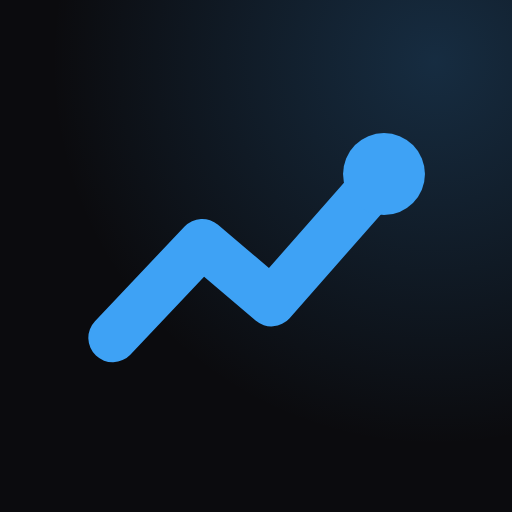
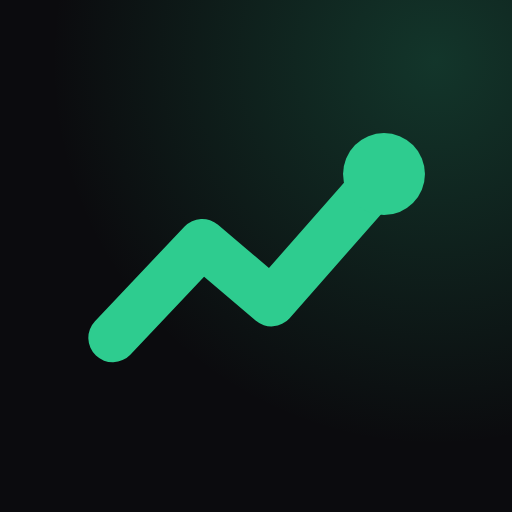
Acento verde jade en lugar del celeste (también íconos)

Changed region(s): [[0.1562, 0.25, 0.8438, 0.7188]]

diff --git a/src/index.css b/src/index.css
@@ -14,10 +14,10 @@
   --fg: #0c0c0e;
   --muted: #62626b;
   --faint: #a1a1a9;
-  --accent: #1f86da;
-  --accent-ink: #1571bf;
+  --accent: #15a36e;
+  --accent-ink: #0d8a5b;
   --on-accent: #ffffff;
-  --accent-soft: rgba(31, 134, 218, 0.12);
+  --accent-soft: rgba(21, 163, 110, 0.12);
   --good: #16a34a;
   --bad: #dc2626;
   --warn: #d97706;
@@ -40,10 +40,10 @@
   --fg: #f4f4f5;
   --muted: #a1a1aa;
   --faint: #65656f;
-  --accent: #2e93e6;
-  --accent-ink: #5ab4fa;
-  --on-accent: #ffffff;
-  --accent-soft: rgba(58, 164, 246, 0.16);
+  --accent: #2ecc8f;
+  --accent-ink: #45d9a0;
+  --on-accent: #04140d;
+  --accent-soft: rgba(46, 204, 143, 0.14);
   --good: #4ade80;
   --bad: #f87171;
   --warn: #fbbf24;

diff --git a/src/ui/Logo.tsx b/src/ui/Logo.tsx
@@ -7,12 +7,12 @@ export function LogoMark({ size = 56 }: { size?: number }) {
       <path
         d="M24 64 L40 47 L53 58 L74 35"
         fill="none"
-        stroke="#3EA2F5"
+        stroke="#2ECC8F"
         strokeWidth="9"
         strokeLinecap="round"
         strokeLinejoin="round"
       />
-      <circle cx="74" cy="35" r="7.5" fill="#3EA2F5" />
+      <circle cx="74" cy="35" r="7.5" fill="#2ECC8F" />
     </svg>
   );
 }

diff --git a/CLAUDE.md b/CLAUDE.md
@@ -98,7 +98,7 @@ npm run format       # prettier (+ orden de clases de Tailwind)
 ## Diseño / gotchas de UI
 
 - Mobile-first pensado para PWA en iPhone (pantalla de inicio). `viewport-fit=cover` + paddings con `env(safe-area-inset-*)`; barra de estado `black-translucent` (texto blanco): en tema claro se pinta una franja oscura detrás de la barra de estado para que se lea.
-- Color de acento celeste/azul (`--accent`, `--accent-ink` en `src/index.css`; antes era lima y se cambió a pedido). Tema oscuro por defecto; claro/sistema desde Ajustes (`localStorage` `ft-theme`, aplicado por un script inline en `index.html` antes del primer paint).
+- Color de acento verde jade/esmeralda (`--accent`, `--accent-ink` en `src/index.css`). Historial a pedido del usuario: empezó lima (#C8F750, no le gustó), pasó a celeste/azul y volvió a verde pero no lima. Los íconos de `public/` usan el mismo color. Tema oscuro por defecto; claro/sistema desde Ajustes (`localStorage` `ft-theme`, aplicado por un script inline en `index.html` antes del primer paint).
 - Recharts no entiende `var(--x)` en props: los colores salen de `useCssColors()` (lee las variables CSS reales según el tema).
 - Inputs con `font-size` ≥ 16px (si no, iOS hace zoom al enfocar). Números decimales con `inputMode="decimal"` en inputs de texto (acepta coma o punto; nunca `type="number"`). Formato de números `es-AR` (coma decimal).
 - **Teclado en iOS dentro de hojas**: `repositionInputs` de Vaul está apagado porque en iOS empujaba la hoja fuera de la pantalla al abrir el teclado (bug real reportado al renombrar una rutina). En su lugar `useKeyboard` en `src/ui/sheet.tsx` mide `visualViewport` y apoya la hoja justo encima del teclado limitando su altura.
